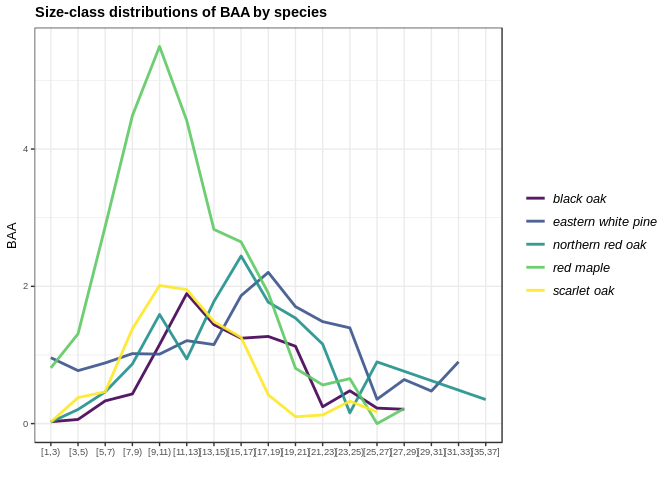
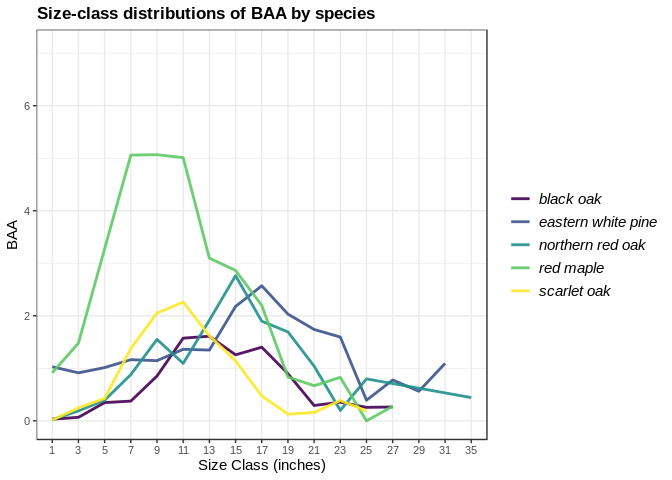
Update Git README

diff --git a/README.md b/README.md
@@ -36,9 +36,6 @@ errors produced by EVALIDator. Current development is focused on the
 implementation of spatially-enabled model-assisted estimators to improve
 population, change, and ratio estimates.
 
-You can download subsets of the FIA Database at the FIA Datamart:
-<https://apps.fs.usda.gov/fia/datamart/CSV/datamart_csv.html>
-
 <br>
 
 ## Installation
@@ -73,6 +70,7 @@ devtools::install_github('hunter-stanke/rFIA')
 | `invasive`      | Estimate areal coverage of invasive species                        |
 | `plotFIA`       | Produce static & animated plots of spatial FIA summaries           |
 | `readFIA`       | Load FIA database into R environment                               |
+| `seedling`      | Estimate seedling abundance (TPA)                                  |
 | `standStruct`   | Estimate forest structural stage distributions                     |
 | `tpa`           | Estimate abundance of standing trees (TPA & BAA)                   |
 | `vitalRates`    | Estimate live tree growth rates                                    |
@@ -143,16 +141,18 @@ data("fiaRI")
 fiaRI_MR <- clipFIA(fiaRI, mostRecent = TRUE) ## subset the most recent data
 tpaRI_MR <- tpa(fiaRI_MR)
 head(tpaRI_MR)
-#>   YEAR      TPA      BAA TPA_PERC BAA_PERC   TPA_SE   BAA_SE TPA_PERC_SE
-#> 1 2018 426.7119 122.1143 93.22791   93.677 6.631549 3.057083     7.61641
-#>   BAA_PERC_SE nPlots_TREE nPlots_AREA
-#> 1    4.477168         126         127
+#> # A tibble: 1 x 11
+#>    YEAR   TPA   BAA TPA_PERC BAA_PERC TPA_SE BAA_SE TPA_PERC_SE BAA_PERC_SE
+#>   <int> <dbl> <dbl>    <dbl>    <dbl>  <dbl>  <dbl>       <dbl>       <dbl>
+#> 1  2018  427.  122.     93.2     93.7   6.63   3.06        7.62        4.48
+#> # … with 2 more variables: nPlots_TREE <dbl>, nPlots_AREA <dbl>
 
 ## All Inventory Years Available (i.e., returns a time series)
 tpaRI <- tpa(fiaRI)
 
 ## Time Series plot
-plotFIA(tpaRI, BAA, plot.title = 'Basal area per acre in Rhode Island over time')
+plotFIA(tpaRI, BAA, se = TRUE,
+        plot.title = 'Basal area per acre in Rhode Island over time')
 ```
 
 <img src="man/figures/README-unnamed-chunk-4-1.png" width="100%" />
@@ -164,38 +164,35 @@ class?**
 ## Group estimates by species
 tpaRI_species <- tpa(fiaRI_MR, bySpecies = TRUE)
 head(tpaRI_species, n = 3)
-#>   YEAR SPCD          COMMON_NAME        SCIENTIFIC_NAME        TPA
-#> 1 2018   12           balsam fir         Abies balsamea 0.08732464
-#> 2 2018   43 Atlantic white-cedar Chamaecyparis thyoides 0.24652918
-#> 3 2018   68     eastern redcedar   Juniperus virginiana 1.13812339
-#>          BAA   TPA_PERC   BAA_PERC    TPA_SE    BAA_SE TPA_PERC_SE
-#> 1 0.02945721 0.01907867 0.02259738 114.02897 114.02897    7.700936
-#> 2 0.17960008 0.05386163 0.13777578  59.08447  55.97810    7.638942
-#> 3 0.13844250 0.24865690 0.10620276  64.77184  67.45948    7.643501
-#>   BAA_PERC_SE nPlots_TREE nPlots_AREA
-#> 1    4.619978           1         127
-#> 2    4.511914           3         127
-#> 3    4.527460           5         127
+#> # A tibble: 3 x 14
+#>    YEAR  SPCD COMMON_NAME SCIENTIFIC_NAME    TPA    BAA TPA_PERC BAA_PERC
+#>   <int> <int> <chr>       <chr>            <dbl>  <dbl>    <dbl>    <dbl>
+#> 1  2018    12 balsam fir  Abies balsamea  0.0873 0.0295   0.0191   0.0226
+#> 2  2018    43 Atlantic w… Chamaecyparis … 0.247  0.180    0.0539   0.138 
+#> 3  2018    68 eastern re… Juniperus virg… 1.14   0.138    0.249    0.106 
+#> # … with 6 more variables: TPA_SE <dbl>, BAA_SE <dbl>, TPA_PERC_SE <dbl>,
+#> #   BAA_PERC_SE <dbl>, nPlots_TREE <dbl>, nPlots_AREA <dbl>
 
 ## Group estimates by size class
 ## NOTE: Default 2-inch size classes, but you can make your own using makeClasses()
 tpaRI_sizeClass <- tpa(fiaRI_MR, bySizeClass = TRUE)
 head(tpaRI_sizeClass, n = 3)
-#>   YEAR sizeClass       TPA      BAA TPA_PERC BAA_PERC    TPA_SE    BAA_SE
-#> 1 2018     [1,3) 200.04626 3.703843 43.68492 3.004808  9.350683  9.599735
-#> 2 2018     [3,5)  67.04905 5.636636 14.64177 4.572821 12.110857 12.699784
-#> 3 2018     [5,7)  44.10363 8.579190  9.63109 6.960020  5.338930  5.392966
-#>   TPA_PERC_SE BAA_PERC_SE nPlots_TREE nPlots_AREA
-#> 1    4.464367    1.978547          76         126
-#> 2    4.465090    1.980327          46         126
-#> 3    4.463748    1.976972         115         126
+#> # A tibble: 3 x 12
+#>    YEAR sizeClass   TPA   BAA TPA_PERC BAA_PERC TPA_SE BAA_SE TPA_PERC_SE
+#>   <int>     <dbl> <dbl> <dbl>    <dbl>    <dbl>  <dbl>  <dbl>       <dbl>
+#> 1  2018         1 188.   3.57     41.0     2.74  13.0   12.8         6.39
+#> 2  2018         3  68.6  5.76     15.0     4.42  15.1   15.8         6.39
+#> 3  2018         5  46.5  9.06     10.2     6.95   6.51   6.57        6.38
+#> # … with 3 more variables: BAA_PERC_SE <dbl>, nPlots_TREE <dbl>,
+#> #   nPlots_AREA <dbl>
 
 ## Group by species and size class, and plot the distribution 
 ##  for the most recent inventory year
 tpaRI_spsc <- tpa(fiaRI_MR, bySpecies = TRUE, bySizeClass = TRUE)
 plotFIA(tpaRI_spsc, BAA, grp = COMMON_NAME, x = sizeClass,
         plot.title = 'Size-class distributions of BAA by species', 
-        x.lab = '', text.size = .64, n.max = 5) # Only want the top 5 species, try n.max = -5 for bottom 5
+        x.lab = 'Size Class (inches)', text.size = .75,
+        n.max = 5) # Only want the top 5 species, try n.max = -5 for bottom 5
 ```
 
 <img src="man/figures/README-unnamed-chunk-5-1.png" width="100%" />
@@ -218,12 +215,13 @@ tpaRI_own <- tpa(fiaRI_MR,
                      treeDomain = DIA > 12 & CCLCD %in% c(1,2),
                      areaDomain = PHYSCLCD %in% c(20:29))
 head(tpaRI_own)
-#>   YEAR OWNGRPCD       TPA      BAA TPA_PERC BAA_PERC   TPA_SE   BAA_SE
-#> 1 2018       30 0.8482522 3.567751      100      100 58.95933 59.06494
-#> 2 2018       40 1.4920940 3.992055      100      100 25.69191 27.70682
-#>   TPA_PERC_SE BAA_PERC_SE nPlots_TREE nPlots_AREA
-#> 1    60.69603    60.74652           3          38
-#> 2    26.85686    28.61007          12          82
+#> # A tibble: 2 x 12
+#>    YEAR OWNGRPCD   TPA   BAA TPA_PERC BAA_PERC TPA_SE BAA_SE TPA_PERC_SE
+#>   <int>    <int> <dbl> <dbl>    <dbl>    <dbl>  <dbl>  <dbl>       <dbl>
+#> 1  2018       30 0.848  3.57     20.8     29.3   59.0   59.1        24.7
+#> 2  2018       40 1.49   3.99     79.2     70.7   25.7   27.7        24.7
+#> # … with 3 more variables: BAA_PERC_SE <dbl>, nPlots_TREE <dbl>,
+#> #   nPlots_AREA <dbl>
 ```
 
 **What if I want to produce estimates within my own population
